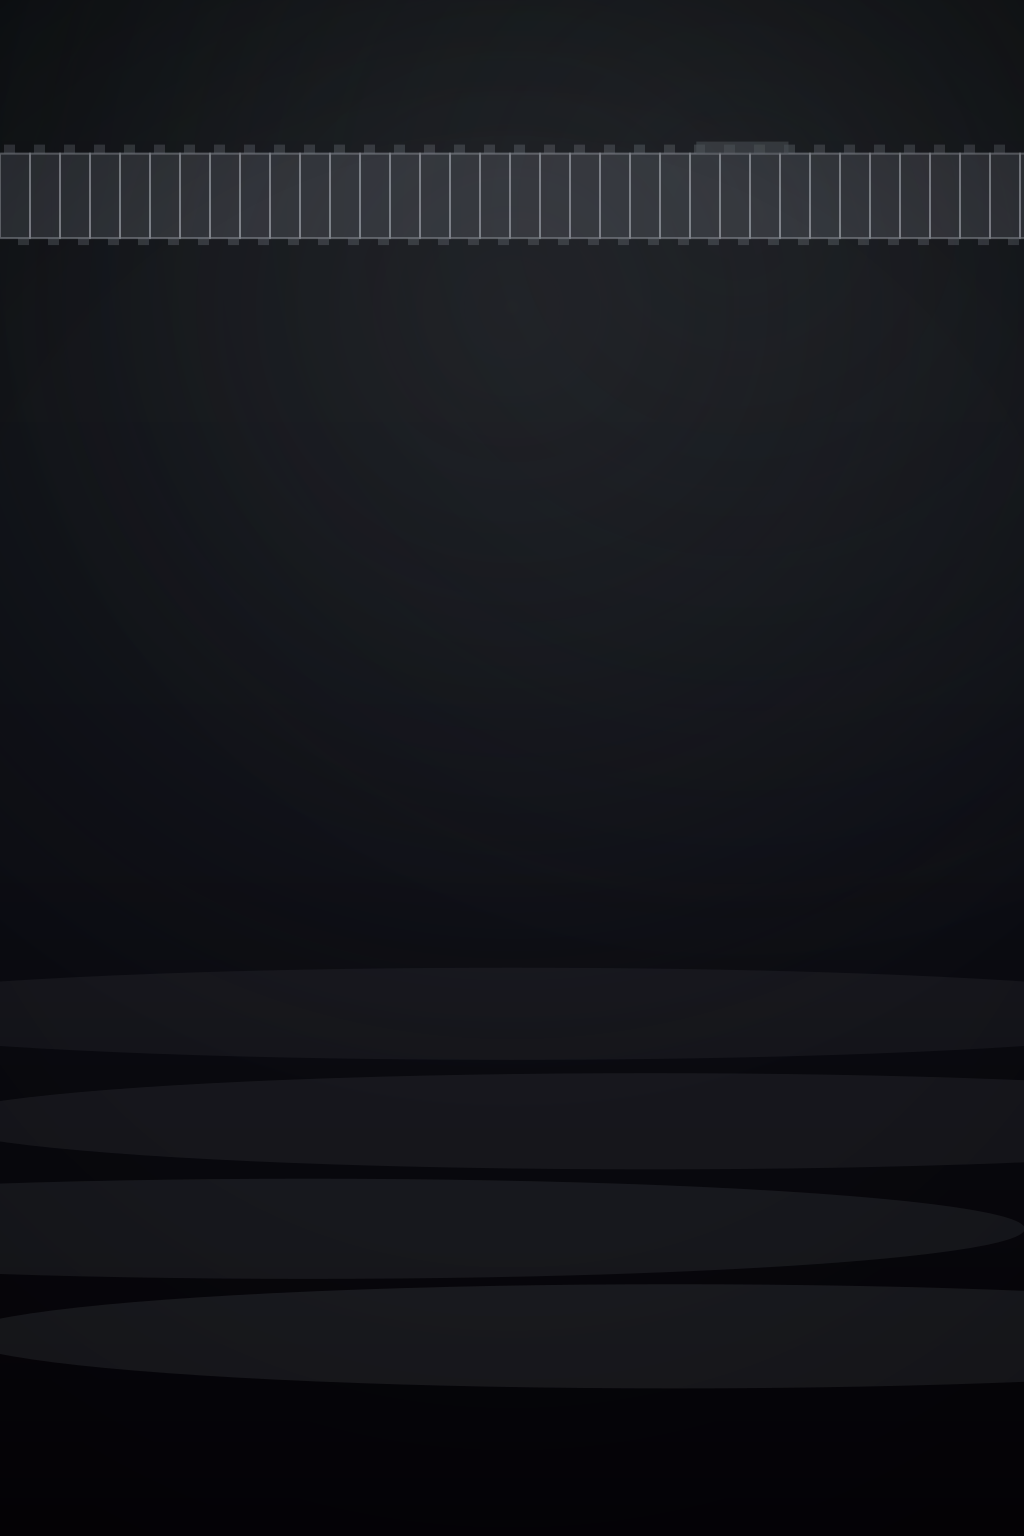
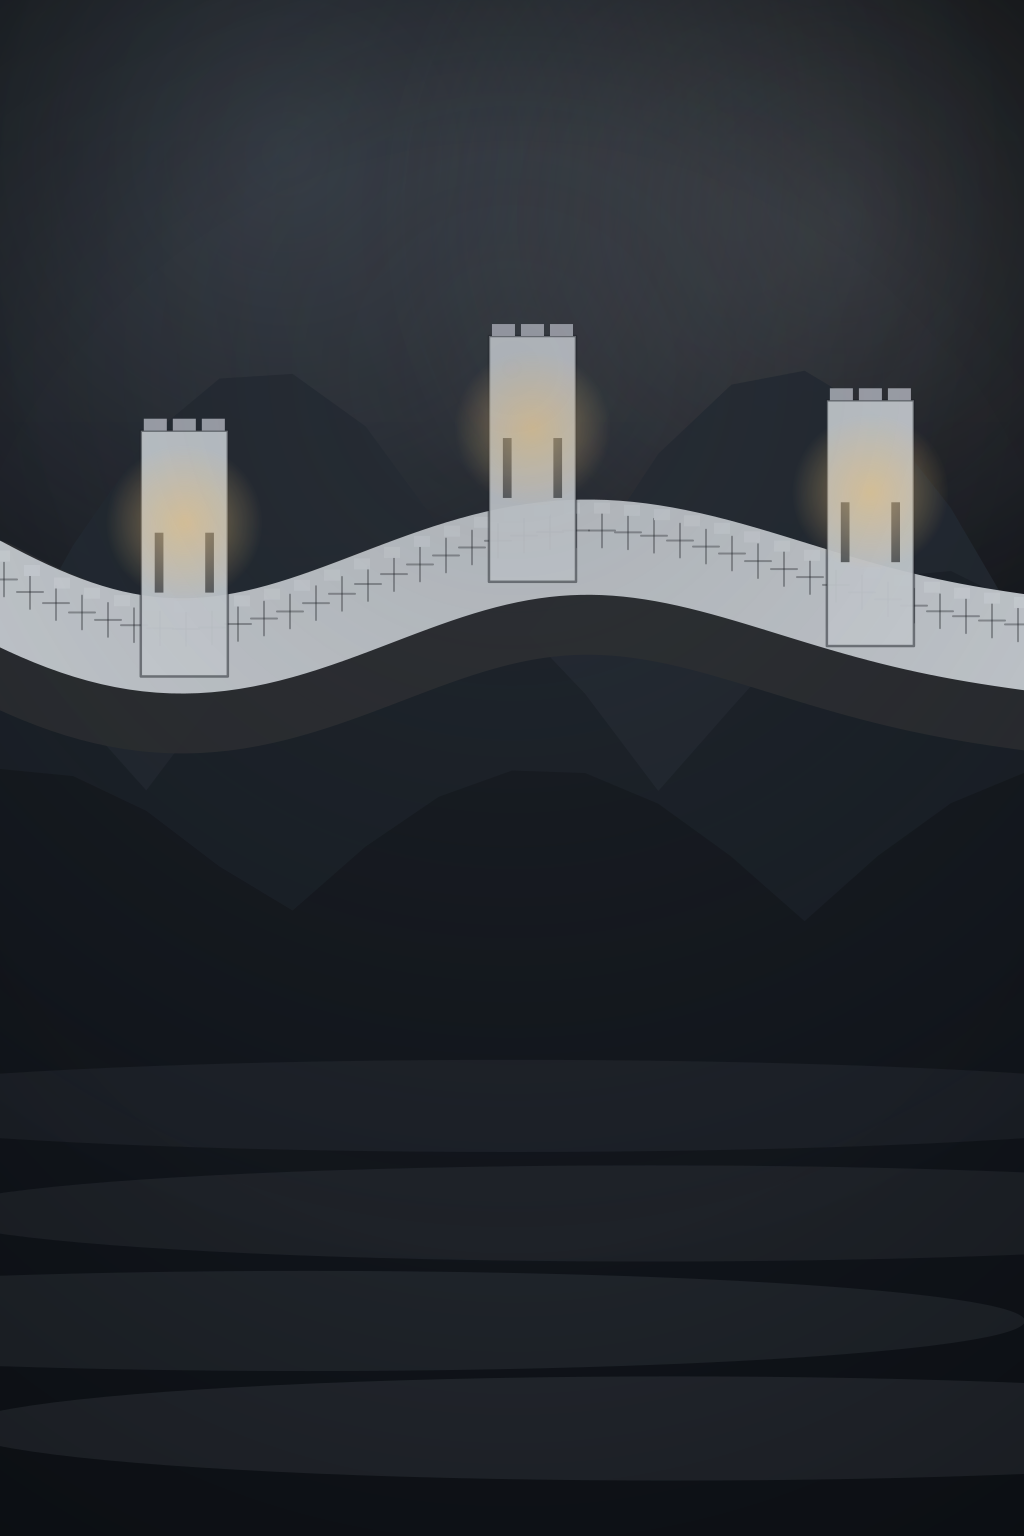
fix nivel 9 Gran Muralla: fondo rediseñado con muralla luminosa (dos pasadas de piedra, almenas, torres vigía con luz cálida) sobre montañas en silueta; fallback procedimental del motor armonizado; filtro por asset en gen-assets (node tools/gen-assets.cjs wall); regenerados bg-wall.png, dist y sw.js

diff --git a/dist/index.html b/dist/index.html
@@ -1747,14 +1747,17 @@ function prerenderBg(){
     o.beginPath(); o.moveTo(W*0.32,H*0.3); o.quadraticCurveTo(W*0.5,H*0.1,W*0.8,H*0.24); o.stroke();
     o.beginPath(); o.moveTo(W*0.42,H*0.26); o.quadraticCurveTo(W*0.55,H*0.14,W*0.72,H*0.2); o.stroke();
   } else if(bd==="wall"){
-    o.fillStyle="rgba(190,196,205,.10)";
-    var by=H*0.12, bh=H*0.05;
-    o.fillRect(0,by-bh, W, bh);
-    for(var i=0;i<Math.ceil(W/26);i++){
-      o.fillRect(i*26, by-bh-8, 12, 8);
-      o.fillRect(i*26+14, by, 12, 6);
-    }
-    o.fillRect(W*0.72, by-bh-10, W*0.1, 10);
+    var wy=H*0.16, wh=H*0.05, n=Math.ceil(W/24);
+    o.fillStyle="rgba(203,208,214,.55)";
+    o.fillRect(0,wy-wh,W,wh);
+    o.fillStyle="rgba(167,171,180,.65)";
+    for(var i=0;i<n;i++) o.fillRect(i*24,wy-wh-9,11,9);
+    o.fillStyle="rgba(223,228,236,.45)";
+    for(var i=0;i<n;i++) o.fillRect(i*24+15,wy-wh+wh*0.35,10,7);
+    o.fillStyle="rgba(203,208,214,.9)";
+    o.fillRect(W*0.7,wy-wh-16,W*0.06,wh+16);
+    o.fillStyle="rgba(255,207,138,.85)";
+    o.fillRect(W*0.715,wy-wh-11,W*0.03,5);
   } else if(bd==="terracotta"){
     for(var row=0;row<2;row++){
       var by=H*0.06+row*H*0.13;

diff --git a/js/core/engine.js b/js/core/engine.js
@@ -165,14 +165,17 @@ function prerenderBg(){
     o.beginPath(); o.moveTo(W*0.32,H*0.3); o.quadraticCurveTo(W*0.5,H*0.1,W*0.8,H*0.24); o.stroke();
     o.beginPath(); o.moveTo(W*0.42,H*0.26); o.quadraticCurveTo(W*0.55,H*0.14,W*0.72,H*0.2); o.stroke();
   } else if(bd==="wall"){
-    o.fillStyle="rgba(190,196,205,.10)";
-    var by=H*0.12, bh=H*0.05;
-    o.fillRect(0,by-bh, W, bh);
-    for(var i=0;i<Math.ceil(W/26);i++){
-      o.fillRect(i*26, by-bh-8, 12, 8);
-      o.fillRect(i*26+14, by, 12, 6);
-    }
-    o.fillRect(W*0.72, by-bh-10, W*0.1, 10);
+    var wy=H*0.16, wh=H*0.05, n=Math.ceil(W/24);
+    o.fillStyle="rgba(203,208,214,.55)";
+    o.fillRect(0,wy-wh,W,wh);
+    o.fillStyle="rgba(167,171,180,.65)";
+    for(var i=0;i<n;i++) o.fillRect(i*24,wy-wh-9,11,9);
+    o.fillStyle="rgba(223,228,236,.45)";
+    for(var i=0;i<n;i++) o.fillRect(i*24+15,wy-wh+wh*0.35,10,7);
+    o.fillStyle="rgba(203,208,214,.9)";
+    o.fillRect(W*0.7,wy-wh-16,W*0.06,wh+16);
+    o.fillStyle="rgba(255,207,138,.85)";
+    o.fillRect(W*0.715,wy-wh-11,W*0.03,5);
   } else if(bd==="terracotta"){
     for(var row=0;row<2;row++){
       var by=H*0.06+row*H*0.13;

diff --git a/dist/sw.js b/dist/sw.js
@@ -2,7 +2,7 @@
    cache-first para estaticos, cache con red primero para navegacion,
    los assets de musica/fondos se cachean bajo demanda.
    NO EDITAR A MANO: la lista CORE y la VERSION se regeneran en cada build. */
-const VERSION = "opartfan-v2-05c85d17";
+const VERSION = "opartfan-v2-ca2b16d9";
 const CORE = [
   "./",
   "./index.html",

diff --git a/sw.js b/sw.js
@@ -2,7 +2,7 @@
    cache-first para estaticos, cache con red primero para navegacion,
    los assets de musica/fondos se cachean bajo demanda.
    NO EDITAR A MANO: la lista CORE y la VERSION se regeneran en cada build. */
-const VERSION = "opartfan-v2-05c85d17";
+const VERSION = "opartfan-v2-ca2b16d9";
 const CORE = [
   "./",
   "./index.html",
